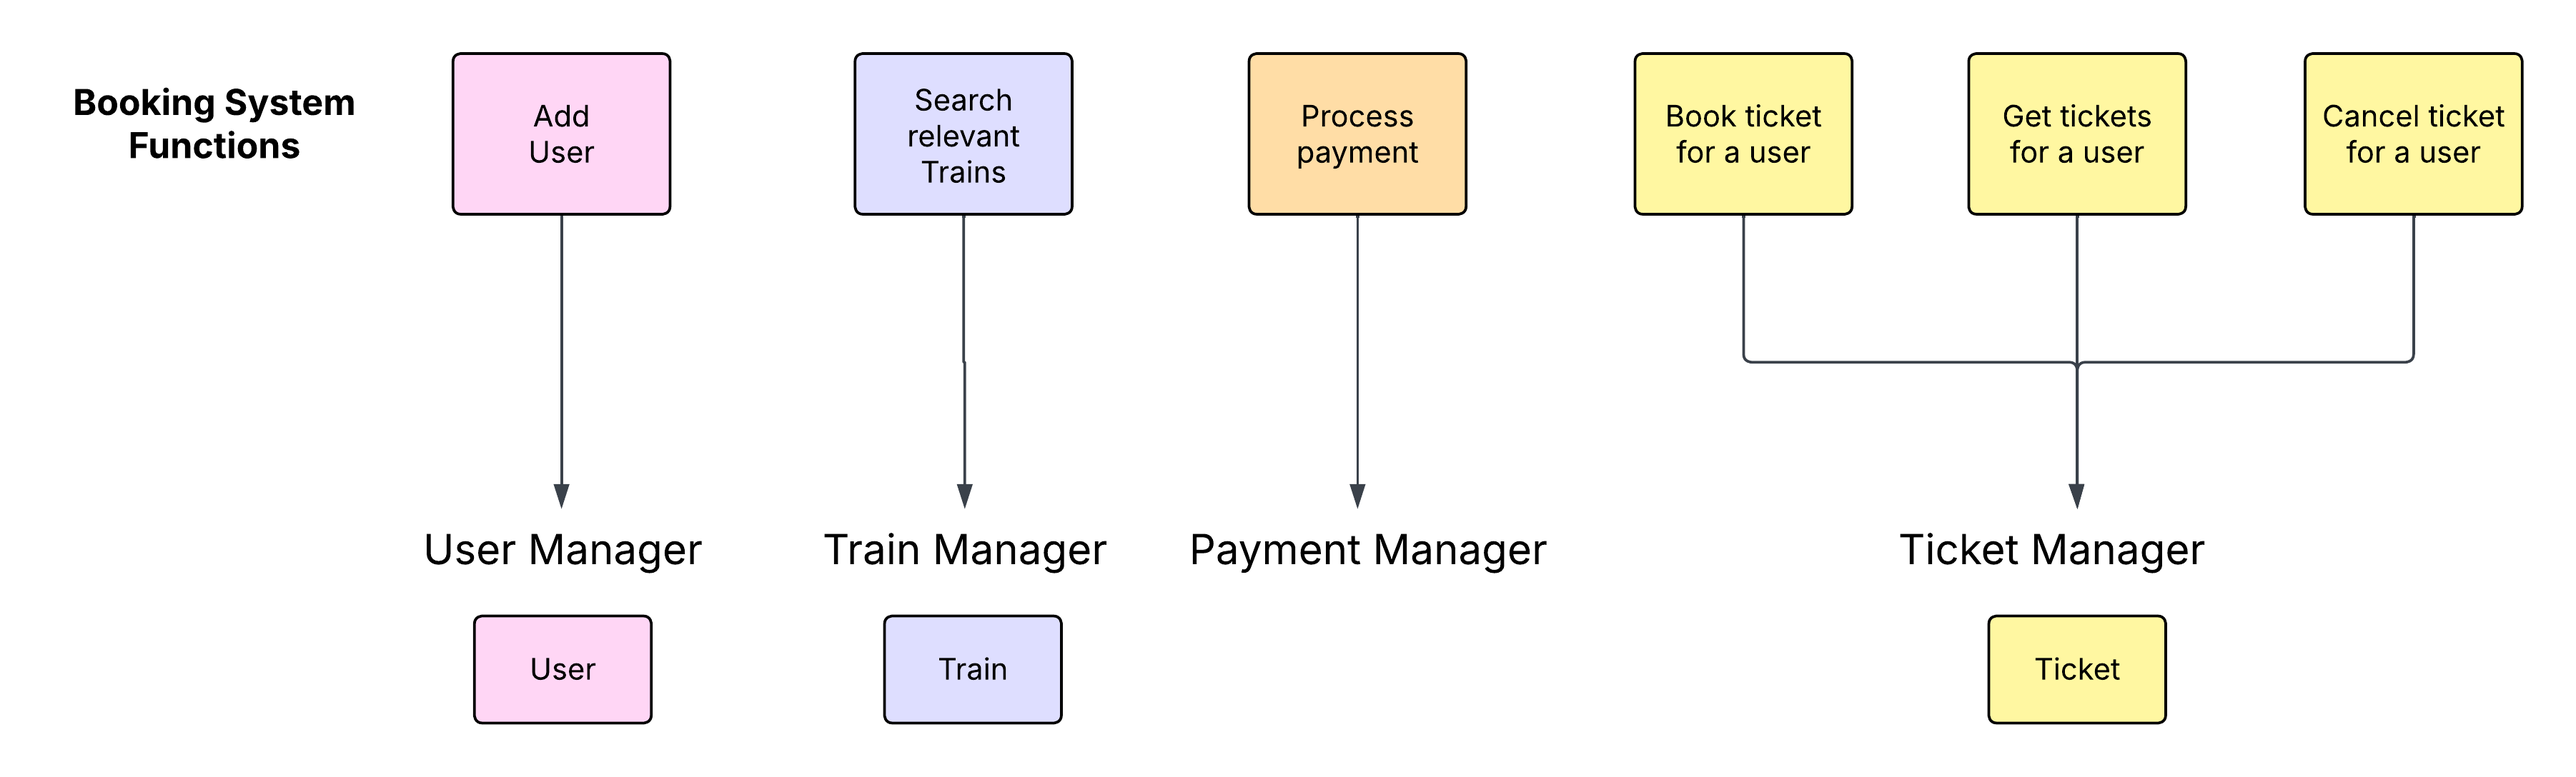
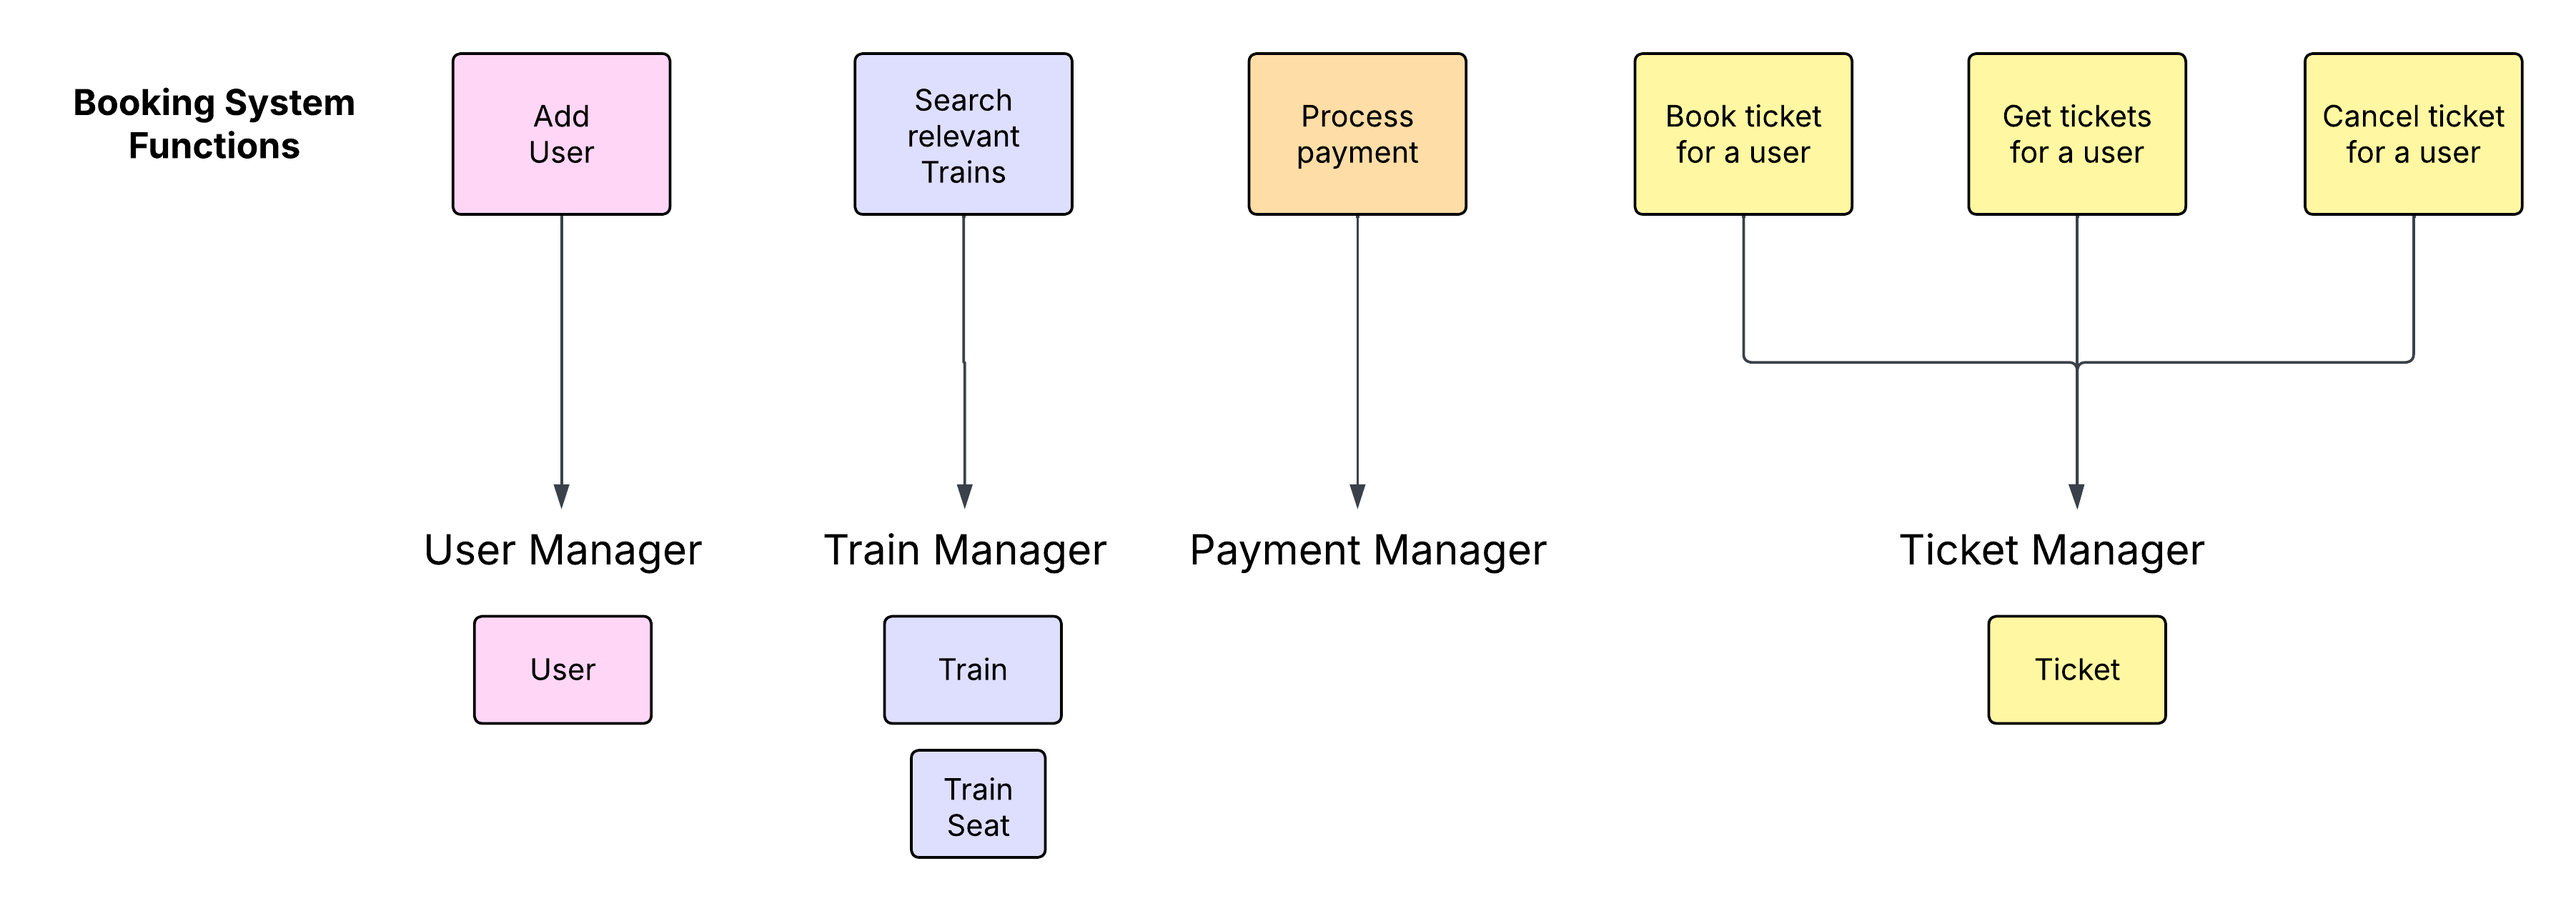
Update steps 2 to 4 in Ticket Booking documentation (#8)

diff --git a/design-problems/ticket-booking-system/src/train_manager.py b/design-problems/ticket-booking-system/src/train_manager.py
@@ -20,6 +20,34 @@ class TrainSeat:
     def is_booked(self):
         return self.__is_booked
 
+# For simplicity we assume all the trains run on all weekdays
+class Train:
+    def __init__(
+        self,
+        train_id: int,
+        train_name: str,
+        schedule: dict[str : (int, datetime.time)],
+        seats: dict[TrainSeatType:int],
+    ):
+        self.train_id: int = train_id
+        self.train_name: int = train_name
+        # schedule: {location: (distance, time)}
+        self.schedule: dict[str : (int, datetime.time)] = schedule
+        self.origin: str = list(schedule.keys())[0]
+        self.destination: str = list(schedule.keys())[-1]
+        self.seats: List[TrainSeat] = self.add_seats(seats)
+
+    def add_seats(self, seats: dict[TrainSeatType:int]):
+        train_seats = []
+        for seat_type, count in seats.items():
+            for i in range(count):
+                train_seats.append(
+                    TrainSeat(len(train_seats) + 1, self.train_id, seat_type)
+                )
+        return train_seats
+
+    def get_distance(self, origin: str, destination: str):
+        return self.schedule[destination][0] - self.schedule[origin][0]
 
 class TrainManager:
     def __init__(self):
@@ -36,7 +64,7 @@ class TrainManager:
         self.trains[train_id] = train
         print(f"Train {train_name} with ID {train_id} has been added successfully.\n")
 
-    def get_train(self, train_id: int):
+    def get_train(self, train_id: int) -> Train:
         return self.trains.get(train_id)
 
     def search_trains(self, origin: str, destination: str):
@@ -72,33 +100,3 @@ class TrainManager:
         for seat in seats:
             seat.unbook()
         return True
-
-
-# For simplicity we assume all the trains run on all weekdays
-class Train:
-    def __init__(
-        self,
-        train_id: int,
-        train_name: str,
-        schedule: dict[str : (int, datetime.time)],
-        seats: dict[TrainSeatType:int],
-    ):
-        self.train_id: int = train_id
-        self.train_name: int = train_name
-        # schedule: {location: (distance, time)}
-        self.schedule: dict[str : (int, datetime.time)] = schedule
-        self.origin: str = list(schedule.keys())[0]
-        self.destination: str = list(schedule.keys())[-1]
-        self.seats: List[TrainSeat] = self.add_seats(seats)
-
-    def add_seats(self, seats: dict[TrainSeatType:int]):
-        train_seats = []
-        for seat_type, count in seats.items():
-            for i in range(count):
-                train_seats.append(
-                    TrainSeat(len(train_seats) + 1, self.train_id, seat_type)
-                )
-        return train_seats
-
-    def get_distance(self, origin: str, destination: str):
-        return self.schedule[destination][0] - self.schedule[origin][0]

diff --git a/design-problems/ticket-booking-system/ticket-booking-system.md b/design-problems/ticket-booking-system/ticket-booking-system.md
@@ -1,8 +1,10 @@
-# Ticket Booking System
+# Design Ticket Booking System
+
+## User Flow Diagram
 
 ![User Flow Diagram](./images/UserFlowDiagram.png)
 
-### Requirements
+## Requirements
 
 1. Users should be able to search for trains going from origin to destination at a particular time.
    For simplicity we assume all the trains run on all weekdays.
@@ -19,6 +21,98 @@
 - User can view all bookings.
 - User can cancel booking if it is 3 days before the departure.
 
+## Procedure
+
+### 1. Write down System Functions
+
+Based on the user flow diagram, our system needs to have the following functions:
+
 ![Booking System Functions](./images/BookingSystemFunctions.png)
 
+In this step, we identify the key functions our system needs to implement based on the user flow. Each user action requires a corresponding system function to handle it. This approach helps us ensure that we're covering all the functionality needed to support the user flow, and it gives us a clear picture of what our system needs to do.
+
+### 2. Segregate the Functions into Different Managers
+
+Now we'll organize these functions into logical managers based on their responsibilities:
+
 ![Distribution to Managers](./images/DistributionToManagers.png)
+
+### 3. Create a Main Manager to Manage All the Managers
+
+The main manager (TicketBookingSystem) will coordinate between all other managers. The user interacts with the TicketBookingSystem, which then delegates tasks to the appropriate managers. This creates a clean separation of concerns and makes the system more maintainable.
+
+Also, something to notice - Since UserManager class will be managing users we also need to create User class. Similarly for TicketManager and TrainManager. Do not worry about how TrainSeat class came into picture. You can skip it for now. We will introduce it later when we need that class.
+
+![Ticket Booking System Overview](./images/TicketBookingSystem.png)
+
+### 4. Start Writing Code
+
+Let's start implementing our system, beginning with the simplest class 'UserManager'.
+
+```
+class UserManager:
+    def __init__(self):
+        # {user_id: User}
+        self.users = {}
+        self.user_counter = 1
+
+    def add_user(self, name: str, email: str, phone: str) -> None:
+        user = User(self.user_counter, name, email, phone)
+        self.users[self.user_counter] = user
+        self.user_counter += 1
+        print(f"User {name} has been added successfully. User ID: {user.user_id}\n")
+
+class User:
+    def __init__(self, user_id: int, name: str, email: str, phone: str):
+        self.user_id = user_id
+        self.name = name
+        self.email = email
+        self.phone = phone
+```
+
+Now, let's try implementing TrainManager.  The main idea is to implement the methods we planned earlier (i.e. search_trains). So, for that we create a dictionary of trains from which we will search. But in order to search trains we first need to add trains in that dictionary. Now how do we do it? Well, we need to add another method 'add_train' for that. This method will simply initialize a new train and then add it to the 'trains' dictionary.
+**Something to observe**: We created a new method 'add_train' only when we needed it. We never created a method beforehand. And that is the mentality one should have to write code clearly and complete the problem in an interview setting.
+
+```
+class Train:
+    def init(
+        self,
+        train_id: int,
+        train_name: str,
+        schedule: dict[str : (int, datetime.time)]
+    ):
+        self.train_id: int = train_id
+        self.train_name: int = train_name
+        # schedule: {location: (distance, time)}
+        self.schedule: dict[str : (int, datetime.time)] = schedule
+        self.origin: str = list(schedule.keys())[0]
+        self.destination: str = list(schedule.keys())[-1]
+
+class TrainManager:
+    def __init__(self):
+        self.trains: dict[int:Train] = {}
+
+    def add_train(
+        self,
+        train_id: int,
+        train_name: str,
+        schedule: dict[str : (int, datetime.time)]
+    ):
+        train = Train(train_id, train_name, schedule)
+        self.trains[train_id] = train
+        print(f"Train {train_name} with ID {train_id} has been added successfully.\n")
+
+    # Go through all the trains and return the trains
+    # that have both origin and destination stops in their schedule
+    # and the destination stop is after the origin stop
+    def search_trains(self, origin: str, destination: str):
+        trains = []
+        for train in self.trains.values():
+            if (
+                origin in train.schedule
+                and destination in train.schedule
+                and train.schedule[origin][0] < train.schedule[destination][0]
+            ):
+                trains.append(train)
+        return trains
+```
